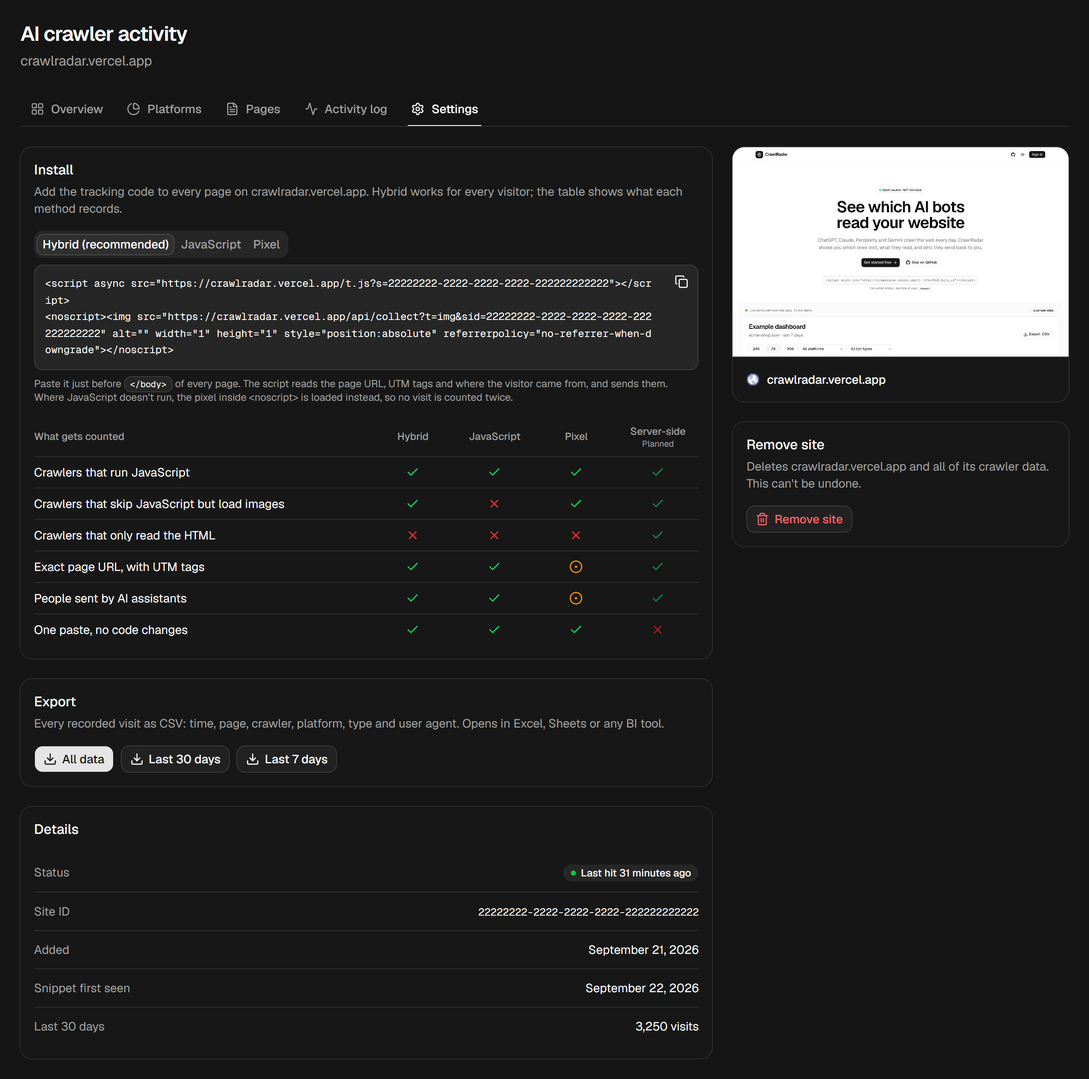
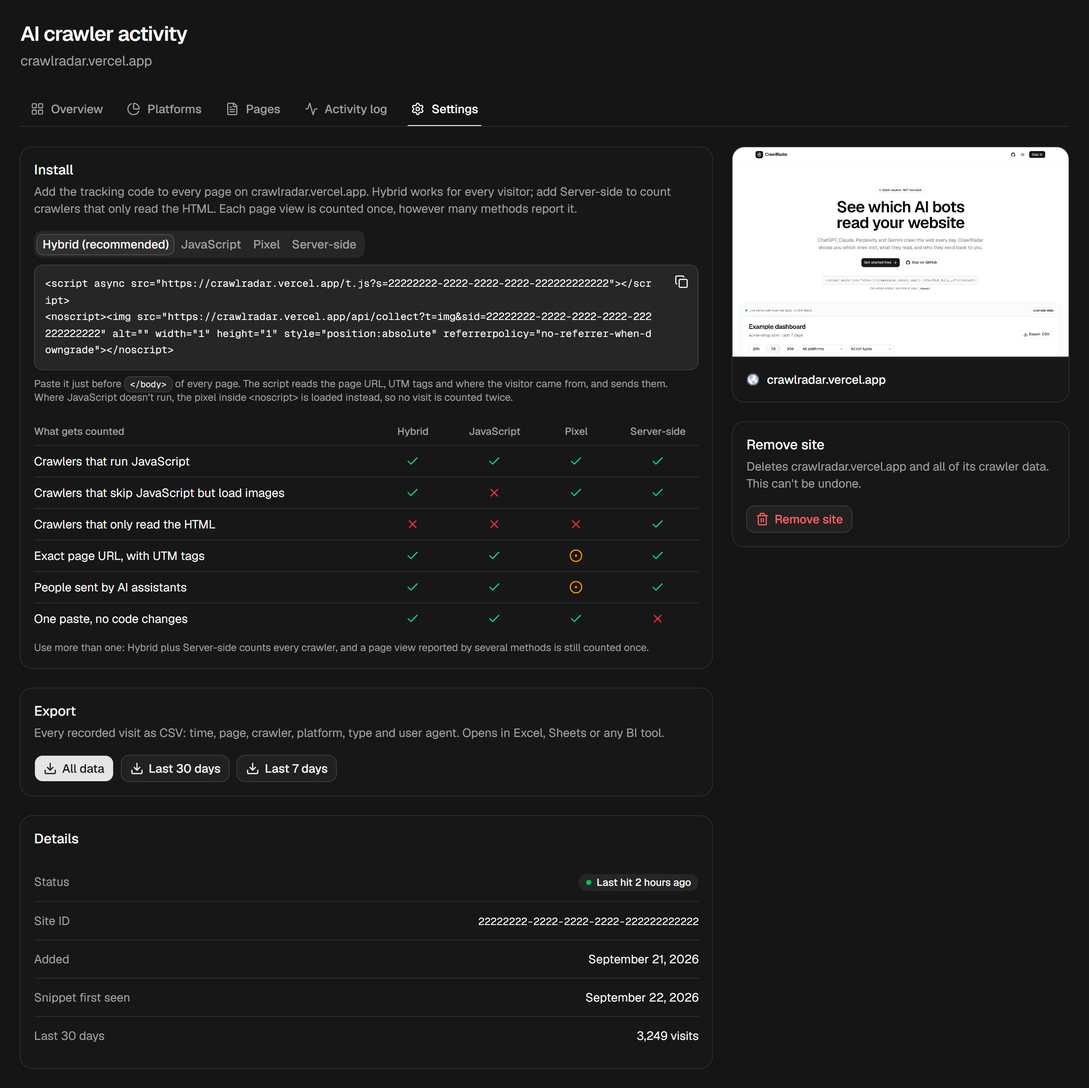
docs: server-side tracking and counting once (v2)
The API, its responses, the counting-once rule and its limits, hashed server keys, the record_hit() design decision, and fresh Settings screenshots.

diff --git a/README.md b/README.md
@@ -27,7 +27,7 @@ Regular analytics tools filter bots out. But AI platforms now read the web aroun
 
 ## Features
 
-- **Three ways to install.** Hybrid (recommended): an async script (about 500 bytes, never blocks the page) plus a `<noscript>` pixel for visitors without JavaScript. Or just the script, or just the pixel. Paste it just before `</body>`.
+- **Four ways to install, counted once.** Hybrid (recommended): an async script (about 500 bytes, never blocks the page) plus a `<noscript>` pixel for visitors without JavaScript, pasted just before `</body>`. Or just the script, or just the pixel. **New in v2: server-side.** A few lines in your middleware or CDN worker report every request, so crawlers that only read the HTML are counted too. Combine methods freely: each page view is counted once.
 - **Guided onboarding.** Five locked steps (account, website, install, verify, explore) with a progress tracker and install tips for WordPress, Shopify, Webflow and frameworks. The dashboard unlocks once the snippet is seen working.
 - **Every AI crawler, classified.** Nearly 60 AI bots grouped by platform and purpose (training, search, assistant), cross-checked with the community [ai.robots.txt](https://github.com/ai-robots-txt/ai.robots.txt) list. That includes Chinese AI platforms: DeepSeek, Qwen and Tongyi (Alibaba), Kimi (Moonshot AI), Doubao (Bytedance), ERNIE (Baidu), Hunyuan (Tencent) and ChatGLM (Zhipu AI). Any other bot is caught by [isbot](https://github.com/omrilotan/isbot) and flagged `Unknown`, named from its user agent.
 - **Search engines alongside.** Googlebot, Bingbot, Baiduspider, YandexBot and others are recorded as their own type, and kept out of the AI totals.
@@ -53,14 +53,16 @@ Regular analytics tools filter bots out. But AI platforms now read the web aroun
 
 ```mermaid
 flowchart TB
-  S["Your website<br/>&lt;script src=/t.js&gt;"] -- "POST /api/collect<br/>(GET for the pixel)" --> C["Next.js<br/>/api/collect"]
+  S["Your pages<br/>&lt;script src=/t.js&gt;"] -- "POST /api/collect<br/>(GET for the pixel)" --> C["Next.js<br/>/api/collect"]
+  M["Your server or CDN<br/>middleware"] -- "POST /api/v1/hits<br/>(server key)" --> H["Next.js<br/>/api/v1/hits"]
   C -- "forwards UA + IP" --> F["Supabase Edge Function<br/>track"]
-  F -- "classify, insert" --> DB[("Supabase Postgres")]
+  H -- "forwards key + hit" --> F
+  F -- "classify, record_hit()" --> DB[("Supabase Postgres")]
   D["Next.js dashboard"] -- "supabase-js + RLS<br/>crawler_stats()" --> DB
 ```
 
-1. **Collect.** Your site loads `/t.js` from your CrawlRadar domain. It sends the page URL and referrer to `/api/collect` on the same domain, so customers never see a backend URL.
-2. **Classify.** `/api/collect` forwards the visit, with the visitor's real User-Agent and IP, to the `track` Edge Function. The function classifies it from the request header (page script can't fake it) and stores only bot hits and AI referrals. Ordinary human visits are dropped; the first one from the site's own pages only marks the snippet as installed, which completes onboarding.
+1. **Collect.** Your pages load `/t.js` from your CrawlRadar domain, which sends the page URL and referrer to `/api/collect` on the same domain, so customers never see a backend URL. With server-side tracking, your middleware also reports each request to `/api/v1/hits` with the site's secret key.
+2. **Classify.** `/api/collect` forwards the visit, with the visitor's real User-Agent and IP, to the `track` Edge Function. The function classifies it from the request header (page script can't fake it) and stores only bot hits and AI referrals, through one SQL function, `record_hit()`, that counts each page view once however many methods report it. Ordinary human visits are dropped; the first one from the site's own pages only marks the snippet as installed, which completes onboarding.
 3. **Report.** The dashboard reads Postgres directly through supabase-js. RLS scopes every query to the signed-in user, and one `crawler_stats()` SQL function returns every chart's data in a single round trip. There's no separate API server.
 
 ## Quick start
@@ -155,7 +157,7 @@ Local URLs:
 
 Sign up and onboarding walks you through it: add your domain, add one tag to every page, and open your site once. The dashboard unlocks as soon as the tag reports in. Add more sites later from **Sites**; each one's tags, CSV export and removal live in the dashboard's **Settings** view.
 
-There are three ways to install. All send the same hit; pick one.
+There are four ways to install. Use one, or combine them: each page view is counted once.
 
 **Hybrid (recommended).** Paste it just before `</body>` of every page. The script reads the page URL, UTM tags and where the visitor came from, and sends them. Where JavaScript doesn't run, the pixel inside `<noscript>` is loaded instead, and browsers that run the script never load it, so no visit is counted twice.
 
@@ -176,18 +178,35 @@ There are three ways to install. All send the same hit; pick one.
 
 **Pixel.** Just the `<img>`, without `<noscript>`, pasted just before `</body>`. A static image has the same link on every page, so it learns the page from the browser's `Referer` header and can't know where the visitor came from.
 
-| What gets counted                             | Hybrid | JavaScript | Pixel  | Server-side (planned) |
-| --------------------------------------------- | ------ | ---------- | ------ | --------------------- |
-| Crawlers that run JavaScript                  | Yes    | Yes        | Yes    | Yes                   |
-| Crawlers that skip JavaScript but load images | Yes    | No         | Yes    | Yes                   |
-| Crawlers that only read the HTML              | No     | No         | No     | Yes                   |
-| Exact page URL, with UTM tags                 | Yes    | Yes        | Partly | Yes                   |
-| People sent by AI assistants                  | Yes    | Yes        | Partly | Yes                   |
-| One paste, no code changes                    | Yes    | Yes        | Yes    | No                    |
+| What gets counted                             | Hybrid | JavaScript | Pixel  | Server-side |
+| --------------------------------------------- | ------ | ---------- | ------ | ----------- |
+| Crawlers that run JavaScript                  | Yes    | Yes        | Yes    | Yes         |
+| Crawlers that skip JavaScript but load images | Yes    | No         | Yes    | Yes         |
+| Crawlers that only read the HTML              | No     | No         | No     | Yes         |
+| Exact page URL, with UTM tags                 | Yes    | Yes        | Partly | Yes         |
+| People sent by AI assistants                  | Yes    | Yes        | Partly | Yes         |
+| One paste, no code changes                    | Yes    | Yes        | Yes    | No          |
 
 "Partly": the pixel takes the page from the `Referer` header, which some browsers and bots trim, and only recognises ChatGPT referrals (ChatGPT adds `utm_source=chatgpt.com` to its links). In the app, hover a mark for the reason.
 
-**Server-side** sees every request, including crawlers that only read the HTML, but needs code on your server, CDN or log pipeline. It isn't built yet; it is on the roadmap.
+**Server-side (new in v2).** Your server sees every request, including crawlers that never load the script or the image. In **Settings > Install > Server-side**, create a server key (shown once; store it as `CRAWLRADAR_KEY` in your server's environment), then report each page request from your middleware or CDN worker, in the background so pages aren't slowed down. The app gives copy-paste code for Next.js (`proxy.ts`), a Cloudflare Worker (in front of any site, whatever it runs on) and cURL. The API:
+
+```http
+POST https://<your-crawlradar>/api/v1/hits
+Authorization: Bearer <server key>
+Content-Type: application/json
+
+{ "url": "https://example.com/pricing", "user_agent": "<User-Agent header>", "ip": "<client IP>", "referrer": "<Referer header or null>" }
+```
+
+| Response                     | Meaning                                                      |
+| ---------------------------- | ------------------------------------------------------------ |
+| `202 {"status":"recorded"}`  | A new visit                                                  |
+| `202 {"status":"duplicate"}` | The script or pixel already reported this page view          |
+| `202 {"status":"ignored"}`   | An ordinary visitor: not a bot or an AI referral, not stored |
+| `400` / `401` / `422`        | Bad body / unknown key / `url` not on the site's domain      |
+
+**Each page view is counted once.** Hybrid plus server-side reports most views twice (the server sees the request, then the script runs), and a script next to a separate pixel does the same. A hit is folded into an existing visit when it is for the same site, page and user agent, arrives within 5 minutes, and comes from a method that hasn't reported that visit yet. So two real visits (two reports from the same method) stay two, the order doesn't matter, and the IP doesn't have to match (a browser can reach your site over IPv6 and CrawlRadar over IPv4). It runs in one SQL function, `record_hit()`, under a lock per page and user agent, so two methods arriving at the same moment can't both insert. The activity log shows which methods reported each visit, such as "via Server + Script". pgTAP and end-to-end tests cover it.
 
 **How hits are sent.** The script POSTs each hit as a beacon (`navigator.sendBeacon`, as PRD 6.1 describes), falling back to an image request where beacons aren't available. The pixel is an `<img>`, so it sends a GET.
 
@@ -195,7 +214,7 @@ End-to-end tests load real pages as GPTBot and check that every method arrives: 
 
 <picture>
   <source media="(prefers-color-scheme: dark)" srcset="docs/images/install-dark.png">
-  <img alt="Settings: the JavaScript tag and the pixel, what each records, CSV export, details and removal" src="docs/images/install-light.png" width="720">
+  <img alt="Settings: the install methods, what each records, CSV export, details and removal" src="docs/images/install-light.png" width="720">
 </picture>
 
 The site shows **"Last hit ..."** with a live dot as soon as the first event lands. Until then the dashboard listens with a live empty state, then switches to charts on its own.
@@ -204,6 +223,7 @@ The site shows **"Last hit ..."** with a live dot as soon as the first event lan
 
 - **Accounts are isolated by the database itself.** Every query runs under Postgres row-level security as the signed-in user. Two people can add the same domain: each gets a separate site with a random ID, and neither can read, change or delete the other's data. [`security.test.sql`](supabase/tests/database/security.test.sql) proves this with 21 checks, and the end-to-end suite repeats it through the real app.
 - **A copied snippet can't inject data.** Site IDs are visible in the snippet, so the tracking function only counts a hit when its page belongs to the site's domain (or a subdomain) and, when the browser sends an `Origin` header (beacons do, and page scripts can't change it), so does that. Like any client-side analytics, a hand-made request could still fake a hit; rate limiting is on the roadmap.
+- **Server keys are stored hashed.** Only a key's SHA-256 is kept; the key is shown once, when it is created, and replacing it stops the old one. A server-side hit carries the key, so its user agent and IP can be trusted, and a hit for a page outside the site's domain is rejected.
 - **Nothing personal is stored.** Only bot hits and AI referrals are kept, IPs are stored as a SHA-256 hash with a salt that rotates daily, and the service-role key never leaves the Edge Function.
 - **Shared links stay private.** A link to a private page sends signed-out visitors (and link-preview bots) to sign in. The preview describes the destination, like "AI crawler dashboard", without showing any data.
 - **The install check is safe.** Onboarding can fetch a site's home page to look for the tag; it only fetches public hostnames that resolve to public addresses (no localhost, private networks or cloud metadata), checks every redirect, and stops after 6 seconds or 512 KB.
@@ -211,13 +231,13 @@ The site shows **"Last hit ..."** with a live dot as soon as the first event lan
 
 ## Testing
 
-| Suite                     | Command                     | What it covers                                                                                                                                                                                                                                                                                         |
-| ------------------------- | --------------------------- | ------------------------------------------------------------------------------------------------------------------------------------------------------------------------------------------------------------------------------------------------------------------------------------------------------ |
-| Lint and format           | `pnpm lint` / `pnpm format` | Biome formatting, import order and lint rules, cognitive complexity of at most 10 per function, functions of at most 120 lines, and no hand-written source file over 200 lines                                                                                                                         |
-| Unit (Vitest)             | `pnpm test`                 | Bot, search-engine and referrer classifier (every listed bot), stats engine, pages and platform tables, CSV writer, install check, filters, demo data, collect endpoint                                                                                                                                |
-| Coverage                  | `pnpm test:coverage`        | 100% of statements, branches, functions and lines in that code. CI fails below 100%                                                                                                                                                                                                                    |
-| End-to-end (Playwright)   | `pnpm test:e2e`             | Onboarding (locked app, five steps, resume), every dashboard view, filters, reports, the endless activity log, all three install methods, the theme switch, CSV export, site switching and removal, account isolation, snippet spoofing, the home page and its demo, social previews and phone layouts |
-| Database security (pgTAP) | `pnpm db:test`              | Row-level security between accounts: two users with the same domain, cross-account reads, writes, renames, deletes and anonymous access                                                                                                                                                                |
+| Suite                   | Command                     | What it covers                                                                                                                                                                                                                                                                                                                                                        |
+| ----------------------- | --------------------------- | --------------------------------------------------------------------------------------------------------------------------------------------------------------------------------------------------------------------------------------------------------------------------------------------------------------------------------------------------------------------- |
+| Lint and format         | `pnpm lint` / `pnpm format` | Biome formatting, import order and lint rules, cognitive complexity of at most 10 per function, functions of at most 120 lines, and no hand-written source file over 200 lines                                                                                                                                                                                        |
+| Unit (Vitest)           | `pnpm test`                 | Bot, search-engine and referrer classifier (every listed bot), stats engine, pages and platform tables, CSV writer, install check, filters, demo data, collect endpoint                                                                                                                                                                                               |
+| Coverage                | `pnpm test:coverage`        | 100% of statements, branches, functions and lines in that code. CI fails below 100%                                                                                                                                                                                                                                                                                   |
+| End-to-end (Playwright) | `pnpm test:e2e`             | Onboarding (locked app, five steps, resume), every dashboard view, filters, reports, the endless activity log, all four install methods, a page view reported by the server and the script counted once, the theme switch, CSV export, site switching and removal, account isolation, snippet spoofing, the home page and its demo, social previews and phone layouts |
+| Database (pgTAP)        | `pnpm db:test`              | Row-level security between accounts (two users with the same domain, cross-account reads, writes, renames, deletes, anonymous access), and counting each page view once across methods                                                                                                                                                                                |
 
 End-to-end tests run against a production build and the local Supabase stack. Run `pnpm db:start` first.
 
@@ -266,6 +286,7 @@ apps/web/                  Next.js 16 app (App Router, Server Components, Server
   app/(app)/sites/         all sites
   app/(app)/export/        streams the CSV export
   app/api/collect/         public collection endpoint, forwards to the track function
+  app/api/v1/hits/         server-side tracking API (server key), forwards to the track function
   components/dashboard/    one small component per panel, shared by the live app and the demo
   components/onboarding/   the stepper and each step
   components/home/         home page sections
@@ -290,29 +311,32 @@ Add one line to [`ai-bots.ts`](supabase/functions/_shared/ai-bots.ts) (or [`sear
 
 ## Design decisions
 
-| Decision                                              | Why                                                                                                        | Considered instead                                                      |
-| ----------------------------------------------------- | ---------------------------------------------------------------------------------------------------------- | ----------------------------------------------------------------------- |
-| One `<script src>` tag on your own domain             | Shortest install, a cacheable static tracker, and customers only see your domain                           | Inline loader pointing at `*.supabase.co` (longer, exposes the backend) |
-| `/api/collect` forwards to the Edge Function          | Ingest logic lives in one place, and the web host needs no service-role key                                | Inserting from a Next.js route (secret key in the web host)             |
-| User-Agent read on the server, never from the payload | Page script can't fake it; the script's beacon POST and the pixel's GET carry the same fields              | A JS-reported user agent                                                |
-| Only bot hits and referrals are stored                | Keeps the database small and avoids storing personal browsing data                                         | Store everything and filter at query time                               |
-| A curated AI list, then `isbot` for any other bot     | Exact names, platforms and purposes for AI bots; a maintained library catches the rest                     | Only a generic bot/crawl/spider regex                                   |
-| Onboarding unlocks on the first real hit              | Proves the install works end to end, with no test data written to the account                              | A send-test-event button (fake data in the dashboard)                   |
-| Daily-salted SHA-256 IP hash                          | Groups visits within a day without storing an IP or tracking across days                                   | Raw IP; a static hash (reversible by brute force over IPv4)             |
-| No custom API: supabase-js, RLS and one SQL function  | Less code to run and secure; authorisation enforced in the database                                        | A separate API server; client-side aggregation (breaks past 1,000 rows) |
-| Stats engine mirrored in TypeScript                   | The home page demo runs the real dashboard on mock data, fully client-side, and the logic is unit-testable | A static screenshot                                                     |
-| Monorepo with a shared `@crawlradar/ui`               | shadcn's official monorepo layout; room for `apps/api` or docs later                                       | A single app                                                            |
+| Decision                                                  | Why                                                                                                        | Considered instead                                                      |
+| --------------------------------------------------------- | ---------------------------------------------------------------------------------------------------------- | ----------------------------------------------------------------------- |
+| One `<script src>` tag on your own domain                 | Shortest install, a cacheable static tracker, and customers only see your domain                           | Inline loader pointing at `*.supabase.co` (longer, exposes the backend) |
+| `/api/collect` forwards to the Edge Function              | Ingest logic lives in one place, and the web host needs no service-role key                                | Inserting from a Next.js route (secret key in the web host)             |
+| User-Agent read on the server, never from the payload     | Page script can't fake it; the script's beacon POST and the pixel's GET carry the same fields              | A JS-reported user agent                                                |
+| Only bot hits and referrals are stored                    | Keeps the database small and avoids storing personal browsing data                                         | Store everything and filter at query time                               |
+| A curated AI list, then `isbot` for any other bot         | Exact names, platforms and purposes for AI bots; a maintained library catches the rest                     | Only a generic bot/crawl/spider regex                                   |
+| Onboarding unlocks on the first real hit                  | Proves the install works end to end, with no test data written to the account                              | A send-test-event button (fake data in the dashboard)                   |
+| Every method goes through one `record_hit()` SQL function | Counting once must hold across function instances: a per-page advisory lock makes check-and-insert atomic  | Deduplicating in the Edge Function (races between instances)            |
+| Daily-salted SHA-256 IP hash                              | Groups visits within a day without storing an IP or tracking across days                                   | Raw IP; a static hash (reversible by brute force over IPv4)             |
+| No custom API: supabase-js, RLS and one SQL function      | Less code to run and secure; authorisation enforced in the database                                        | A separate API server; client-side aggregation (breaks past 1,000 rows) |
+| Stats engine mirrored in TypeScript                       | The home page demo runs the real dashboard on mock data, fully client-side, and the logic is unit-testable | A static screenshot                                                     |
+| Monorepo with a shared `@crawlradar/ui`                   | shadcn's official monorepo layout; room for `apps/api` or docs later                                       | A single app                                                            |
 
 ## Limitations
 
-- **JavaScript tracking only sees crawlers that load your page's resources.** Bots that read raw HTML without loading `<script>` or `<img>` are invisible. Server-side tracking (edge middleware or log import) is the planned fix.
+- **Browser methods only see crawlers that load your page's resources.** Bots that read raw HTML without loading `<script>` or `<img>` need server-side tracking.
+- **Counting once matches the page path and user agent within 5 minutes.** If a browser trims the pixel's `Referer` to the domain, its path differs from the script's and that view counts twice. Use Hybrid (script or pixel, never both) to avoid it.
 - **`Google-Extended` and `Applebot-Extended` are robots.txt tokens.** Google and Apple crawl with their normal user agents, so these two rarely appear in real traffic.
 - **Rate limiting.** The collection endpoint has no rate limit yet. Hits are only counted from the site's own domain, but a determined script could still send many from it.
-- **Volume and free-tier limits.** Every page view, human or bot, calls `/api/collect` and the `track` Edge Function once before humans are discarded, so on free plans the monthly function-invocation quotas of [Supabase](https://supabase.com/pricing) and [Vercel](https://vercel.com/pricing) are the first limit, not storage. `crawler_stats()` also aggregates a site's events on every dashboard load. Fine for small and medium sites. Upgrade path: the Pro plans (more invocations, then pay as you go), then a daily rollup table for the dashboard and time-based partitioning of `crawler_events`.
+- **Volume and free-tier limits.** Every page view, human or bot, calls `/api/collect` (and `/api/v1/hits` with server-side tracking) and the `track` Edge Function once before humans are discarded, so on free plans the monthly function-invocation quotas of [Supabase](https://supabase.com/pricing) and [Vercel](https://vercel.com/pricing) are the first limit, not storage. `crawler_stats()` also aggregates a site's events on every dashboard load. Fine for small and medium sites. Upgrade path: the Pro plans (more invocations, then pay as you go), then a daily rollup table for the dashboard and time-based partitioning of `crawler_events`.
 
 ## Roadmap
 
-- [ ] Server-side tracking (middleware and log import)
+- [x] Server-side tracking (v2: middleware and CDN workers)
+- [ ] Server log import
 - [ ] Rate limiting on collection
 - [ ] Daily rollup table for large sites
 - [ ] robots.txt checker: which AI bots you allow or block

diff --git a/docs/PRD.md b/docs/PRD.md
@@ -210,15 +210,16 @@ The install flow is the onboarding at `/onboarding`: sign up, add a domain, copy
 
 ### Risks
 
-| Risk                        | What was done                                                                                                                                                                                                                |
-| --------------------------- | ---------------------------------------------------------------------------------------------------------------------------------------------------------------------------------------------------------------------------- |
-| Bots may not run JavaScript | Three install methods: Hybrid (recommended), the JavaScript tag, or a plain pixel; the pixel also counts crawlers which fetch images but skip scripts. The README documents the rest; server-side tracking is on the roadmap |
-| Signatures change           | Partial, case-insensitive matching, a list checked against ai.robots.txt, and isbot for anything new                                                                                                                         |
-| High volume                 | Only bot and referral hits are stored; indexes on `(site_id, timestamp)`; free-tier limits and the upgrade path are in the README                                                                                            |
+| Risk                        | What was done                                                                                                                                                                                         |
+| --------------------------- | ----------------------------------------------------------------------------------------------------------------------------------------------------------------------------------------------------- |
+| Bots may not run JavaScript | Hybrid (recommended), the JavaScript tag or a plain pixel, which also counts crawlers that fetch images but skip scripts. v2 adds server-side tracking, which counts crawlers that only read the HTML |
+| Signatures change           | Partial, case-insensitive matching, a list checked against ai.robots.txt, and isbot for anything new                                                                                                  |
+| High volume                 | Only bot and referral hits are stored; indexes on `(site_id, timestamp)`; free-tier limits and the upgrade path are in the README                                                                     |
 
 ### Deliberate differences
 
-- **How hits travel.** As 6.1 describes, the JavaScript snippet POSTs each hit as a beacon (`navigator.sendBeacon`), falling back to an image request where beacons aren't available. It goes through `/api/collect` on the dashboard's domain, which relays it to the Edge Function, so customers never see a backend URL. Three install methods are offered: **Hybrid** (recommended: the script plus a `<noscript>` pixel for visitors without JavaScript), **JavaScript** and **Pixel**. A server-side method is listed in the comparison as planned.
+- **How hits travel.** As 6.1 describes, the JavaScript snippet POSTs each hit as a beacon (`navigator.sendBeacon`), falling back to an image request where beacons aren't available. It goes through `/api/collect` on the dashboard's domain, which relays it to the Edge Function, so customers never see a backend URL. Four install methods are offered: **Hybrid** (recommended: the script plus a `<noscript>` pixel for visitors without JavaScript), **JavaScript**, **Pixel** and, since v2, **Server-side**.
+- **Server-side tracking (v2).** Section 11 names server-side tracking as v2, and section 10 puts a REST API out of scope. v2 adds one authenticated endpoint, `POST /api/v1/hits`, called from the site's middleware with a per-site key (stored hashed), so crawlers that only read HTML are counted too. Every method goes through one SQL function, `record_hit()`, which counts each page view once however many methods report it.
 - **The activity log scrolls endlessly** (keyset batches of 50, loaded before you reach the end) instead of pages.
 - **AI referrals were added.** People arriving from ChatGPT, Perplexity, Claude, Gemini, DeepSeek, Kimi, Qwen and others are tracked as their own type, `referral`.
 - **Search engines were added.** Googlebot, Bingbot, Baiduspider, YandexBot and others are stored as `search_engine`, shown alongside, and kept out of the "AI crawler" totals.
